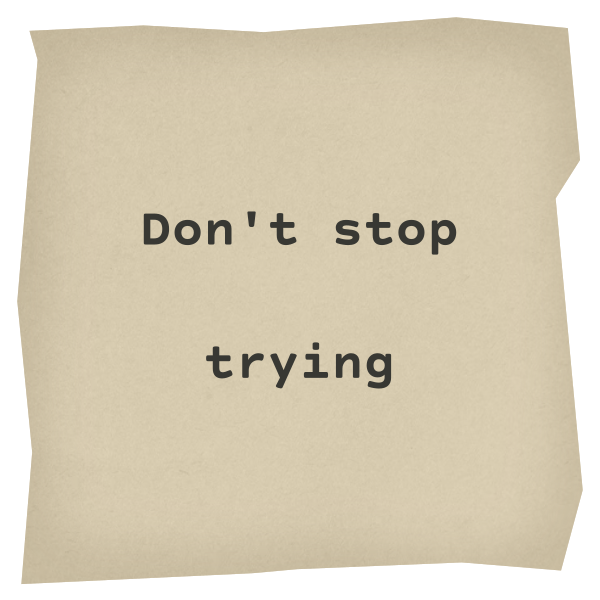
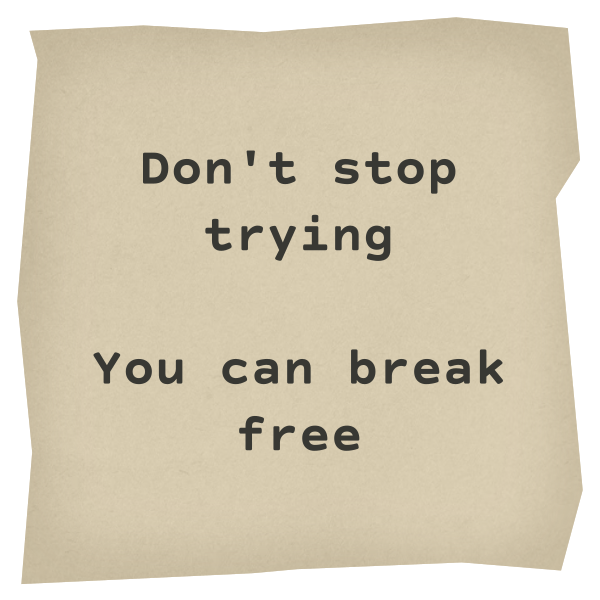
Minor Tweaks & Fixes
Minor Tweaks & Fixes based on observations at the Festival

diff --git a/Inside Out/Assets/Scripts/Knock Knock.cs b/Inside Out/Assets/Scripts/Knock Knock.cs
@@ -29,20 +29,21 @@ public class KnockKnock : MonoBehaviour
     // Update is called once per frame
     void Update()
     {
-        if (GameManager.Instance.camState && imageCount < newspaper.Count)
+        if (GameManager.Instance.camState)
         {
             DoTimer();
             //Debug.Log("Countdown");
         }
 
-        if (imageCount <= newspaper.Count)
+        if (imageCount < newspaper.Count)
         {
             imageMain.sprite = newspaper[imageCount];
             //Debug.Log(imageCount);
         }
         else
         {
-            imageMain.sprite = newspaper[newspaper.Count];
+            imageMain.sprite = newspaper[newspaper.Count - 1];
+            Debug.Log(newspaper.Count);
         }
 
         GameManager.Instance.starAmount = imageCount;

diff --git a/Inside Out/Assets/Scripts/End Scene.cs b/Inside Out/Assets/Scripts/End Scene.cs
@@ -5,6 +5,7 @@ using UnityEngine.UI;
 
 public class EndScene : MonoBehaviour
 {
+    public MeshRenderer renderer;
     public Animator startEnd;
     public UnityEvent endLoad;
     public AudioClip doorCreak;
@@ -33,6 +34,7 @@ public class EndScene : MonoBehaviour
         //Debug.Log("Start good end");
         image.color = new Color(1,1,1,0);
         startEnd.SetBool("Activate End", true);
+        renderer.enabled = true;
         sequenceStart = true;
         GameManager.Instance.camLock = true;
         GameManager.Instance.PlayClip(doorCreak, 0.5f);

diff --git a/Inside Out/Assets/Scripts/Zoom.cs b/Inside Out/Assets/Scripts/Zoom.cs
@@ -19,12 +19,12 @@ public class Zoom : MonoBehaviour
     {
         if(Input.GetKey(KeyCode.Mouse0))
         {
-            cam.fieldOfView--;
+            cam.fieldOfView -= Time.deltaTime * 120;
             //lensScale += 0.00833f; 
         }
         else
         {
-            cam.fieldOfView++;
+            cam.fieldOfView += Time.deltaTime * 120;
             //lensScale -= 0.00833f;
         }
 
